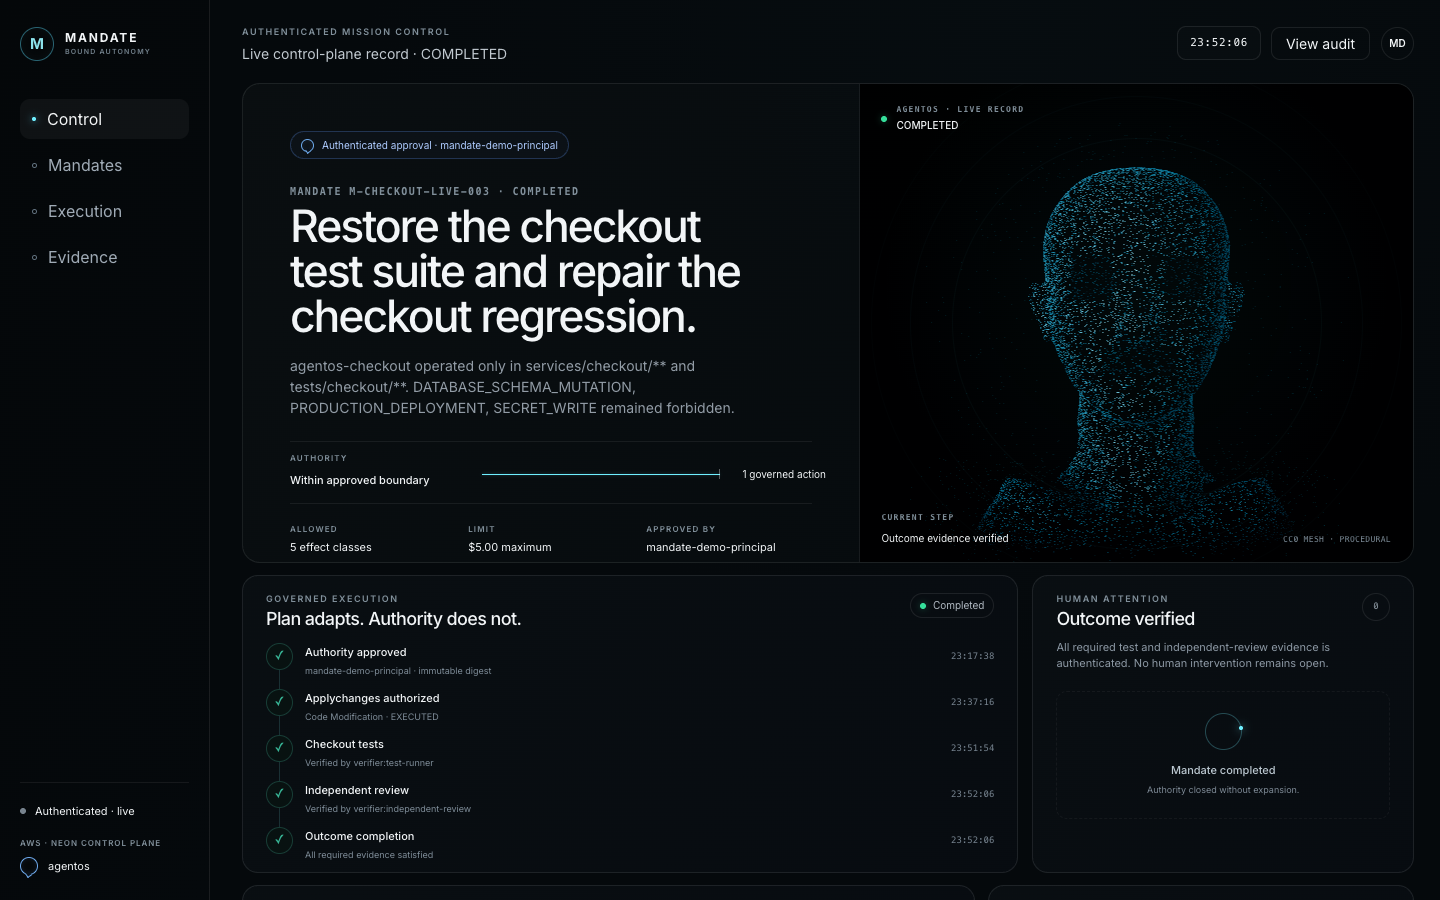
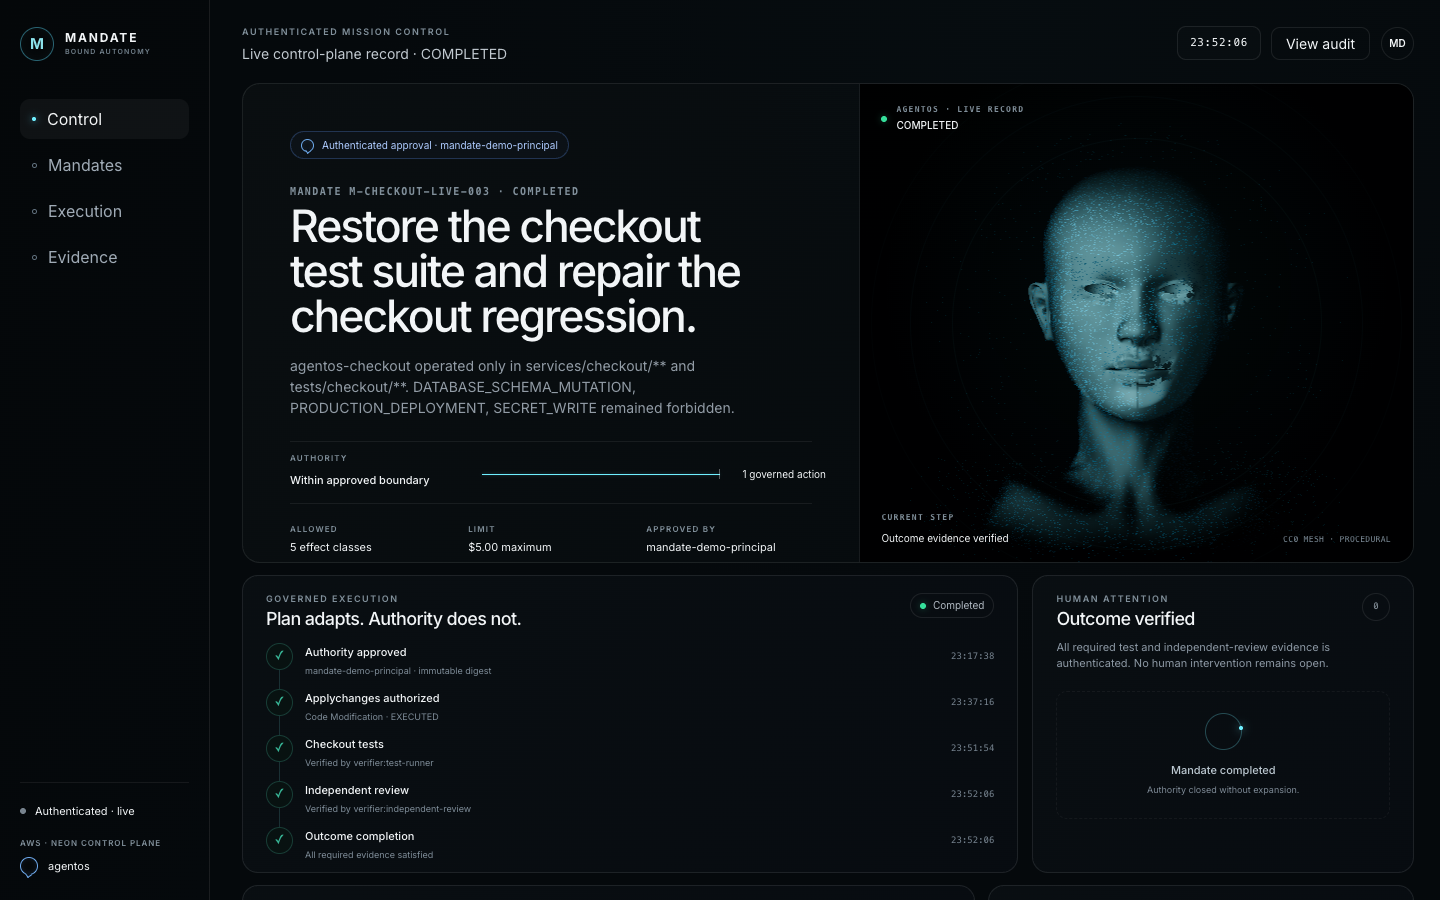
Record anatomical portrait production proof

Changed region(s): [[0.6875, 0.1867, 0.875, 0.5911]]

diff --git a/docs/submission-assets.md b/docs/submission-assets.md
@@ -20,7 +20,7 @@ An editable, accessible SVG is available as `assets/architecture.svg`.
 
 ## Production screenshots
 
-All screenshots are 1440 × 900 PNGs captured from `https://o2mjeuvaik.execute-api.us-east-1.amazonaws.com`. Portrait-bearing screenshots 1, 2, and 4 were recaptured after corrected-portrait deployment [34948633495](https://github.com/Mzoratto/mandate/actions/runs/34948633495); screenshot 3 is unchanged because the simulator does not render the portrait.
+All screenshots are 1440 × 900 PNGs captured from `https://o2mjeuvaik.execute-api.us-east-1.amazonaws.com`. Portrait-bearing screenshots 1, 2, and 4 were recaptured after anatomical-surface deployment [34953532344](https://github.com/Mzoratto/mandate/actions/runs/34953532344); screenshot 3 is unchanged because the simulator does not render the portrait.
 
 1. **`assets/screenshots/01-public-guided-simulation.png`** — public, non-executing explanation of outcome delegation and immutable authority.
 2. **`assets/screenshots/02-boundary-denial.png`** — public simulation showing a forbidden database schema mutation denied before execution.
@@ -35,9 +35,9 @@ Recommended Devpost order: public overview, boundary denial, live MCP status, au
 | --- | --- |
[9 lines of base64/hex data omitted]
 
 Regenerate the PNG architecture rendering from the SVG before updating its manifest entry. Do not replace these production screenshots with fixture or local-development states.

diff --git a/docs/friction-log.md b/docs/friction-log.md
@@ -1301,4 +1301,4 @@ Keep the denser mesh-derived particles, but render a faint state-colored anatomi
 Require a browser-level visual acceptance check for recognizable facial topology before promotion. Geometry statistics remain useful regression constraints but cannot substitute for reviewing the rendered output at its shipping size.
 
 ### Resolution
-Dashboard runs 34948633495 and 34950926307 promoted partial corrections that passed automated checks but did not satisfy the reported visual defect. The replacement fix now renders the CC0 surface beneath the particle field with a texture-free normal/depth shader; local delegate and completed-state captures show explicit anatomical relief. Tests assert that the surface shader has no texture sampler. Production promotion remains separately authorized.
+Dashboard runs 34948633495 and 34950926307 promoted partial corrections that passed automated checks but did not satisfy the reported visual defect. Dashboard run 34953532344 deployed the replacement: the CC0 surface now renders beneath the particle field with a texture-free normal/depth shader. Exact-production delegate, denied, and completed-state captures show explicit anatomical relief at 1440 × 900, with the same result confirmed at 390 × 844. Tests assert that the surface shader has no texture sampler.
